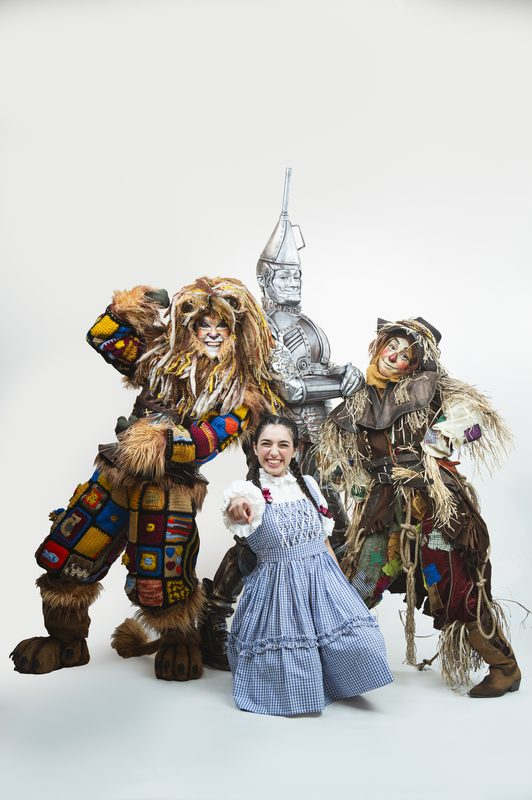
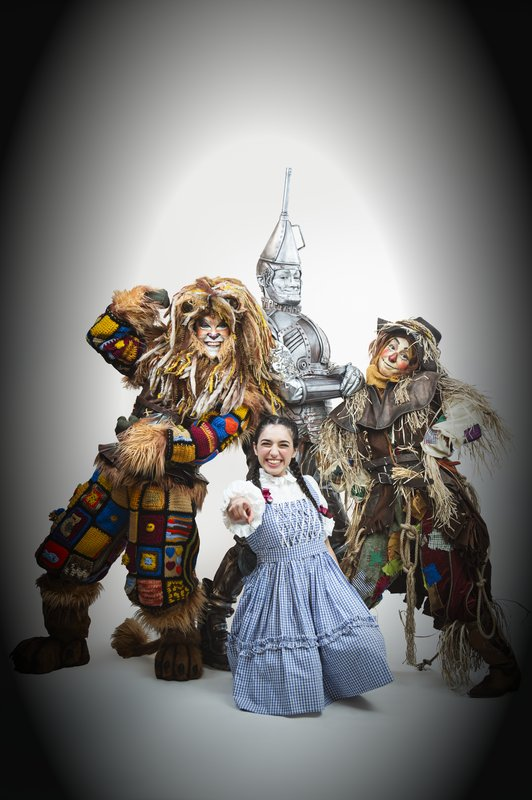
Filmstrip: dark backgrounds, vignette on group photos, touch drag on mobile
https://claude.ai/code/session_01Bgmz2PBKCxRbHmabLbrabw

diff --git a/js/script.js b/js/script.js
@@ -179,16 +179,38 @@ function addParticles(container, count) {
 addParticles(document.querySelector('.hero'), 35);
 addParticles(document.querySelector('.functions'), 20);
 
-// Filmstrip infinite scroll
+// Filmstrip infinite scroll with touch drag
 (function() {
     const track = document.querySelector('.filmstrip-track');
     if (!track) return;
     let pos = 0;
-    const speed = 0.25;
+    const baseSpeed = 0.25;
+    let dragging = false;
+    let startX = 0;
+    let dragOffset = 0;
+
+    track.parentElement.addEventListener('touchstart', function(e) {
+        dragging = true;
+        startX = e.touches[0].clientX;
+        dragOffset = 0;
+    }, { passive: true });
+
+    track.parentElement.addEventListener('touchmove', function(e) {
+        if (!dragging) return;
+        dragOffset = startX - e.touches[0].clientX;
+        startX = e.touches[0].clientX;
+        pos += dragOffset;
+    }, { passive: true });
+
+    track.parentElement.addEventListener('touchend', function() {
+        dragging = false;
+    });
+
     function scroll() {
-        pos += speed;
-        const half = track.scrollWidth / 2;
-        if (pos >= half) pos = 0;
+        if (!dragging) pos += baseSpeed;
+        var half = track.scrollWidth / 2;
+        if (pos >= half) pos -= half;
+        if (pos < 0) pos += half;
         track.style.transform = 'translateX(-' + pos + 'px)';
         requestAnimationFrame(scroll);
     }

diff --git a/index.html b/index.html
@@ -41,7 +41,7 @@
     <!-- Fonts -->
     <link href="https://fonts.googleapis.com/css2?family=Cinzel:wght@400;500;600;700;800;900&family=Nunito:wght@300;400;500;600;700&display=swap" rel="stylesheet">
     <link rel="stylesheet" href="https://cdnjs.cloudflare.com/ajax/libs/font-awesome/6.0.0/css/all.min.css">
-    <link rel="stylesheet" href="css/style.css?v=20260614c">
+    <link rel="stylesheet" href="css/style.css?v=20260614d">
 </head>
 <body>
     <!-- Navigation -->

diff --git a/css/style.css b/css/style.css
@@ -282,8 +282,6 @@ h1, h2, h3, h4, h5, h6 { font-family: 'Cinzel', serif; font-weight: 600; }
     width: auto;
     border-radius: 8px;
     flex-shrink: 0;
-    mix-blend-mode: luminosity;
-    filter: brightness(0.9) contrast(1.1);
 }
 
 /* === DISCOVER CARDS === */
